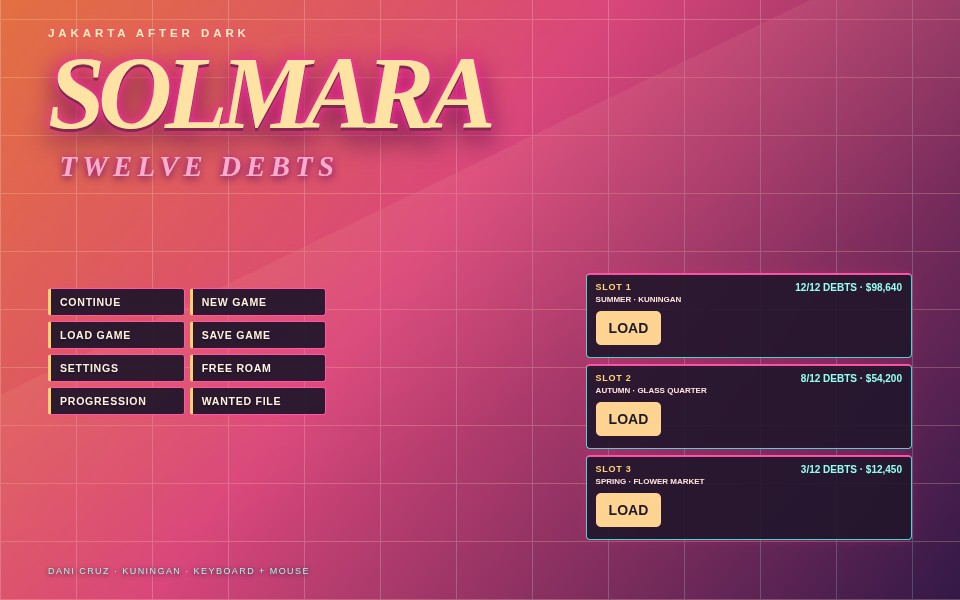
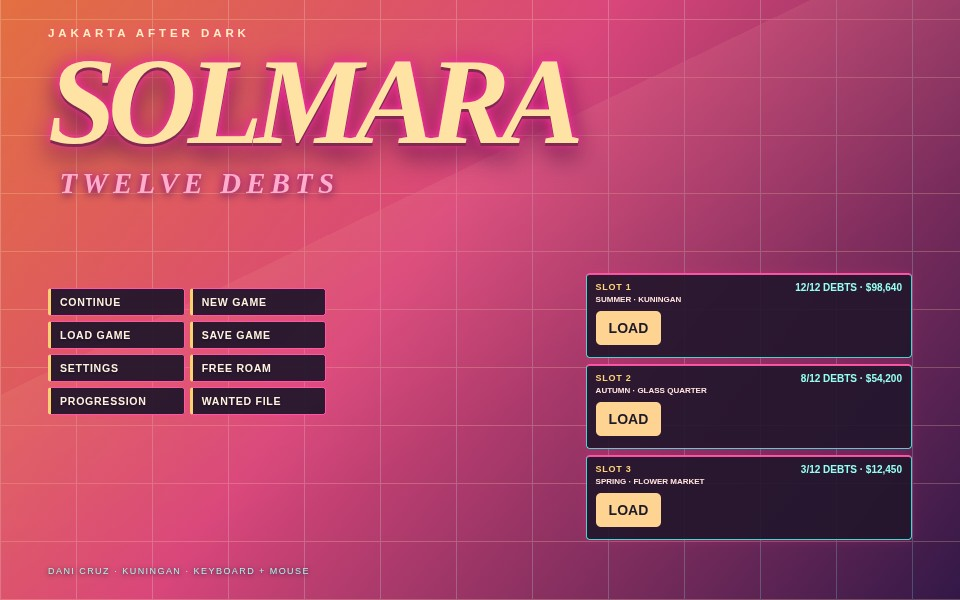
Restore title and records scale, improve text fit, and recapture shots 3-4

Changed region(s): [[0.0312, 0.09, 0.625, 0.33]]

diff --git a/game/src/hud.css b/game/src/hud.css
@@ -109,10 +109,10 @@ button:focus-visible{outline:3px solid var(--aqua)}.hidden{display:none}
 .title-mark h1{font-size:clamp(80px,12.8vw,150px)}
 body[data-screen=menu] #hud,body[data-screen=stats] #hud,body[data-screen=wanted] #hud{visibility:hidden}
 
-/* Vice Sunset treatment, limited to the title and progression screens. */
+/* Vice Sunset colors: preserve the 989f91e logo and island proportions. */
 .title-overlay{background:linear-gradient(128deg,#f27643ed 0%,#ed4b82e8 43%,#341849ed 100%)}
 .title-overlay:before{opacity:.25;background:linear-gradient(154deg,transparent 37%,#ffb05c60 37%,transparent 62%),repeating-linear-gradient(90deg,#45e5dc 0 1px,transparent 1px 76px),repeating-linear-gradient(0deg,#ffcf79 0 1px,transparent 1px 58px);mix-blend-mode:screen}
-.title-mark h1{font-size:clamp(70px,10.7vw,126px);color:#ffe3a5;text-shadow:0 3px 0 #81294f,0 0 8px #ff36a6,0 0 22px #ff258e,0 10px 28px #1b092c}
+.title-mark h1{color:#ffe3a5;text-shadow:0 3px 0 #81294f,0 0 8px #ff36a6,0 0 22px #ff258e,0 10px 28px #1b092c}
 .title-mark h2{color:#ffadca;text-shadow:0 0 9px #ff3da3,0 2px 8px #160a24}
 .title-mark small{color:#fff0b7;text-shadow:0 0 8px #ff3c9d}
 .main-menu button{color:#fff1de;background:#21152beF;border-color:#ff54a7;border-left-color:#ffd071;box-shadow:0 0 8px #ff3c9238;text-shadow:0 1px 3px #140b20}
@@ -131,11 +131,11 @@ body[data-screen=menu] #hud,body[data-screen=stats] #hud,body[data-screen=wanted
 #stats .stats-map.panel{border-left-color:#ff55a9}
 #stats .stats-map h2,#stats .stats-column h2,#stats .checklist h2,#stats .save-records h2{color:#ffd77f;text-shadow:0 0 7px #ff379c}
 #stats .stats-map h2 small,#stats .checklist h2 small{color:#79f3e5;text-shadow:0 0 5px #36cfc0}
-#stats .jakarta-map{min-height:0;background:#32c9c4;border-color:#5af4e1;box-shadow:0 0 14px #22ddd77a;filter:drop-shadow(0 0 6px #ff38904a)}
+#stats .jakarta-map{background:#32c9c4;border-color:#5af4e1;box-shadow:0 0 14px #22ddd77a;filter:drop-shadow(0 0 6px #ff38904a)}
 #stats .map-water{fill:#29bfc0}
 #stats .map-land{fill:#f49b67;stroke:#ffd685;stroke-width:4}
 #stats .map-road{stroke:#367d89;stroke-width:9;opacity:.9}
-#stats .map-route{stroke:#ff369d;stroke-width:9;filter:drop-shadow(0 0 5px #ff138b) drop-shadow(0 0 11px #ff53b6)}
+#stats .map-route{stroke:#ff369d;filter:drop-shadow(0 0 5px #ff138b) drop-shadow(0 0 11px #ff53b6)}
 #stats .map-label circle{fill:#ff3499;stroke:#2a1538;stroke-width:2}
 #stats .map-label text{fill:#fff4d3;stroke:#30203f}
 #stats .map-pin{fill:#ffcf70;stroke:#ff37a0;stroke-width:4;filter:drop-shadow(0 0 6px #ff36a0)}
@@ -148,6 +148,12 @@ body[data-screen=menu] #hud,body[data-screen=stats] #hud,body[data-screen=wanted
 #stats .check-row{color:#b8ccd0}#stats .check-row.complete{color:#fff0cf}#stats .check-row.complete i{background:#51e0d0;border-color:#51e0d0}#stats .check-row b{color:#9487a3}#stats .check-row.complete b{color:#60eadd}
 #stats .save-grid>div{background:#241935;border-color:#ea4f9c}#stats .save-grid b{color:#ffd47e}#stats .save-grid small{color:#c8e3df}
 #stats .save-grid button{color:#321633;background:linear-gradient(100deg,#ffd174,#ff8e66);box-shadow:0 0 6px #ff3c9738}
-#stats .stats-body{grid-template-columns:minmax(0,2.45fr) minmax(260px,.95fr)}
 #stats .stats-panel button:focus-visible{outline-color:#58f1e1}
+/* Reserve room for totals and wrapped save text; keep records legible at 960×600. */
+#stats .stats-body{grid-template-rows:132px 72px 80px minmax(118px,1fr) 80px}
+#stats .totals>div span,#stats .totals>div span small{font-size:8px}
 #stats .check-row{font-size:8px}
+#stats .check-row b{font-size:7px}
+#stats .save-grid b{font-size:8px}
+#stats .save-grid small{font-size:7px}
+#stats .save-grid button{font-size:8px}

diff --git a/game/src/hud.js b/game/src/hud.js
@@ -141,8 +141,9 @@ export function drawHud(game){
   roster(game);drawLoadout(game);drawRadar(el('map'),game);
 }
 function cityMap(){
+  // Original 900×560 viewBox keeps all eleven district labels undistorted; sunset colors stay in CSS.
   const districts=[['KUNINGAN',118,80],['MENTENG',265,48],['RASUNA SAID',410,82],['SETIABUDI',520,145],['GLASS QUARTER',675,100],['CASABLANCA',595,250],['KUMALA STRAND',740,360],['PELABUHAN TUA',570,438],['RAWA MUARA',410,420],['OLD CORAL',250,380],['KEPULAUAN SERIBU',760,72]];
-  return '<svg class="jakarta-map" viewBox="0 0 900 675" role="img" aria-label="Jakarta island map with pink route"><path class="map-water" d="M0 0h900v675H0z"/><g transform="translate(0 -33) scale(1 1.42)"><path class="map-land" d="M75 66C205 22 328 58 408 43c110-20 159 25 254 7 81-15 135 18 154 78 25 82-20 109 23 178 36 59-28 121-107 133-126 20-174 85-294 38-112-44-201-40-279-91-83-54-111-115-82-183 22-53 3-96-2-137z"/><path class="map-road" d="M100 145L295 108 460 130 650 95 789 176M130 285L289 252 443 273 599 238 770 292M148 414L302 374 430 402 604 370 768 417M227 70L210 477M393 46L401 498M553 63L539 475M680 83L692 481"/><path class="map-route" d="M104 431C175 377 189 300 278 265S388 153 469 189s74 109 146 129 84 34 141 66"/><circle class="map-pin" cx="104" cy="431" r="9"/><circle class="map-pin" cx="790" cy="384" r="9"/>'+districts.map(([n,x,y])=>'<g class="map-label" transform="translate('+x+' '+y+')"><circle r="4"/><text x="8" y="4">'+n+'</text></g>').join('')+'</g></svg>';
+  return '<svg class="jakarta-map" viewBox="0 0 900 560" role="img" aria-label="Jakarta island map with pink route"><path class="map-water" d="M0 0h900v560H0z"/><path class="map-land" d="M75 66C205 22 328 58 408 43c110-20 159 25 254 7 81-15 135 18 154 78 25 82-20 109 23 178 36 59-28 121-107 133-126 20-174 85-294 38-112-44-201-40-279-91-83-54-111-115-82-183 22-53 3-96-2-137z"/><path class="map-road" d="M100 145L295 108 460 130 650 95 789 176M130 285L289 252 443 273 599 238 770 292M148 414L302 374 430 402 604 370 768 417M227 70L210 477M393 46L401 498M553 63L539 475M680 83L692 481"/><path class="map-route" d="M104 431C175 377 189 300 278 265S388 153 469 189s74 109 146 129 84 34 141 66"/><circle class="map-pin" cx="104" cy="431" r="9"/><circle class="map-pin" cx="790" cy="384" r="9"/>'+districts.map(([n,x,y])=>'<g class="map-label" transform="translate('+x+' '+y+')"><circle r="4"/><text x="8" y="4">'+n+'</text></g>').join('')+'</svg>';
 }
 export function drawRecords(game){
   const p=game.profile,done=game.statsShot?12:Math.min(12,p.done||0),cash=game.statsShot?98640:p.cash||0;
